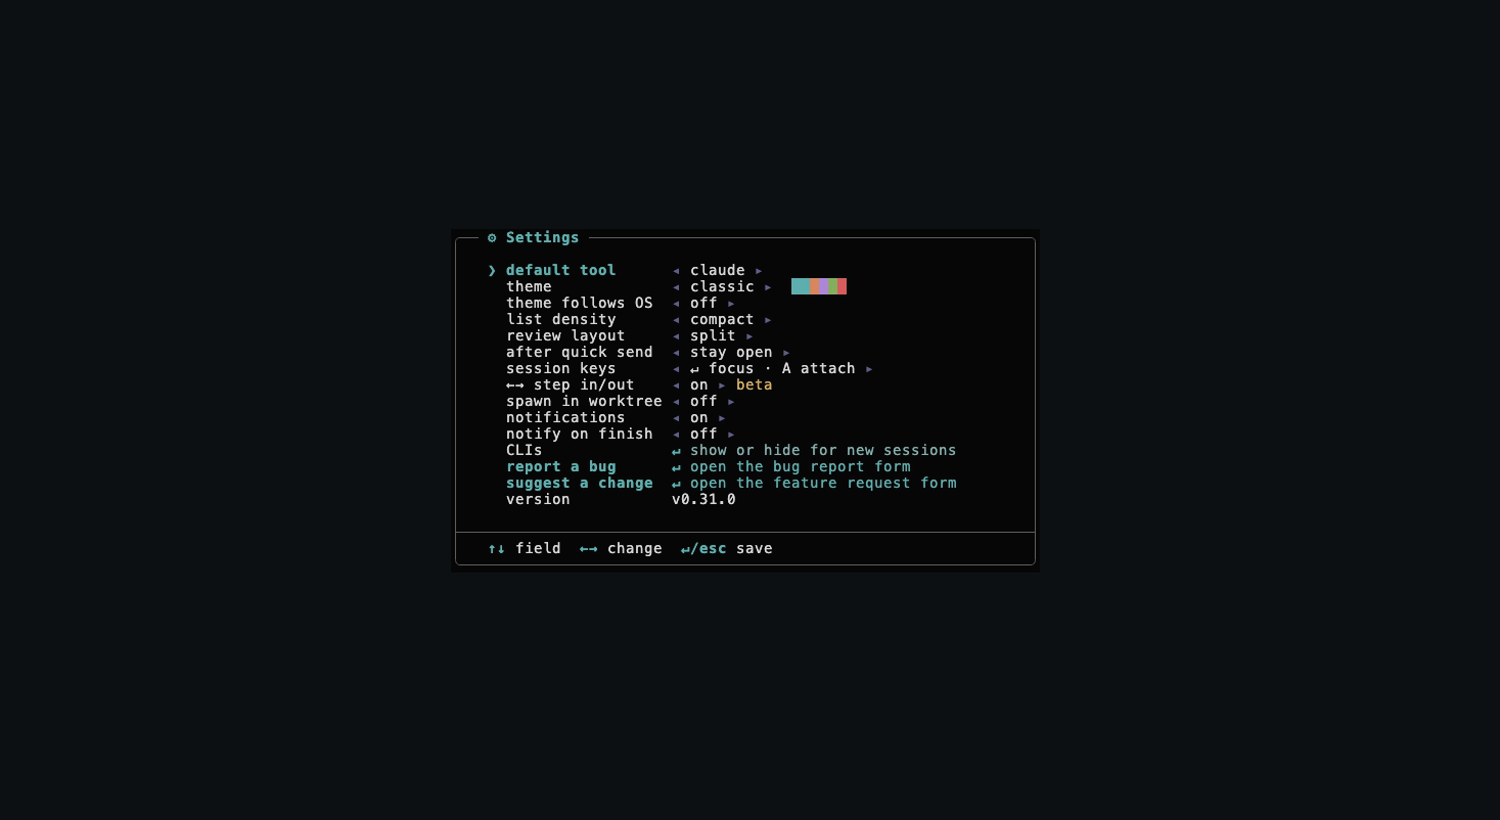
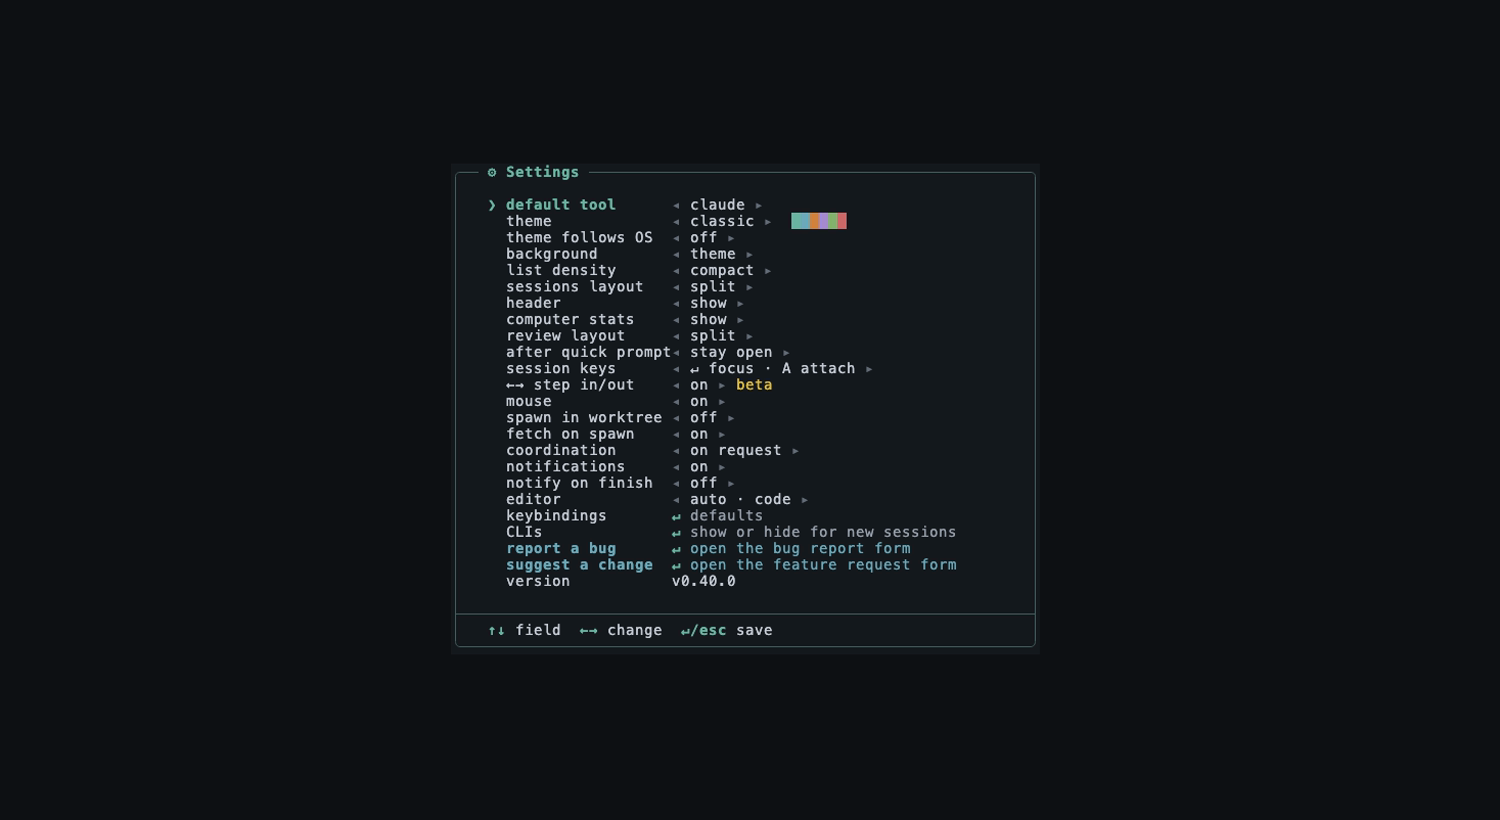
docs: reshoot the demos and stills on v0.40.0
The hero now picks Opus at high effort in quick prompt mode before the
five spawns. The settings, sessions and review stills, the space demo
and both full-screen demos show the v0.40.0 footer, Settings rows and
quick prompt bar.

diff --git a/docs/usage.md b/docs/usage.md
@@ -80,7 +80,7 @@ The new-session form's optional `prompt` field launches an agent the same way, a
 
 The "sessions layout" row in Settings (`s`) hands the session list the whole terminal: `←` or `→` swaps it to `full screen`, the preview column steps aside, and every row takes the full width. The same keys return it to `split`, the default, and the choice is persisted like the split ratio.
 
-![the session list taking the whole terminal, one-line rows with the messages badge on the foot, then a session focused full screen](demo-fullscreen.gif)
+![the session list taking the whole terminal, one-line rows with the computer stats on the foot, then a session focused full screen](demo-fullscreen.gif)
 
 Session rows read the same way in either layout, and the list density setting picks their rhythm. Compact keeps a session to one line: mark, name and badges, then a state-picked value riding to the right of the name with `state · tool · age` against the right edge. That value is the agent's last message whenever it has said anything (the question it waits on, its progress, its result) behind a static `↳` washed in the state color, and the task it was given behind the accent's `❯` only while it has not. Comfortable unfolds each session to three lines: the name line, your last message behind a `❯` in the accent, and the agent's last message under it. A terminal keeps two of them, its name line and its last output, since no one is prompting a shell. Both messages come from the session's own record: the prompt echoed into its transcript (typed in an attach, the focus view, or quick prompt mode, all the same) and the reply read from above its input box, recovered from the tool's session store when it scrolled away. A `waiting` session's message wears its state color at full strength, the other states at a wash of theirs; a `working` session that has not said anything yet animates a loader. Groups stay one line at any density. In the full-screen layout the meters condense to one labeled line above the key legend: cpu, mem, swap, disk, battery (when present), temperatures and net. The separate `header` and `computer stats` settings apply in either layout and return hidden chrome to the session list. Hiding computer stats removes the whole lower block, including its separator. Messages open automatically when new notices arrive. `M` reopens them, and so does a click on `messages` in the key legend while any message is left.
 
@@ -371,7 +371,7 @@ A session stuck on the wrong mark is a rules question, and the rules are ours: t
 
 `w` narrows the list to sessions that need attention (`waiting`, `finished`, `errored`). Press again to show every status. An `ATTENTION` badge sits over the list with the key that clears it, and the session counts follow the filter; folds open so matches are not hidden. The archived view (`t`) and hidden empty groups (`e`) label themselves the same way. The badges take whatever room the rail has: padded away from the entries on a tall terminal, tight against them on a short one, and yielding to the entries once the list is down to its last rows.
 
-![the session tree, with a waiting agent's permission prompt in the preview](screenshot-sessions.png)
+![the session tree, with a Claude Code session's latest answer in the preview](screenshot-sessions.png)
 
 Each row carries its status and tool inline, and a folded group keeps a count per status so a collapsed subtree still tells you whether anything needs you. Selecting a session shows the tail of its pane on the right, which is how a `waiting` agent's actual question reaches you without attaching. A session with no window left, archived or killed, shows the snapshot taken when it still had one.
 

diff --git a/README.md b/README.md
@@ -32,7 +32,7 @@
   <a href="LICENSE"><img src="https://img.shields.io/github/license/YoanWai/agent-manager?style=for-the-badge&label=license&labelColor=1f2328&color=59636e" alt="licence"></a>
 </p>
 
-![five prompts to five fresh agents without moving the cursor, one per CLI, then the blocked one answered and its diff opened](docs/demo.gif)
+![five prompts to five fresh agents without moving the cursor, one per CLI, the first on Opus at high effort picked in the prompt bar, then a session's diff opened in review](docs/demo.gif)
 
 Claude Code, Codex, OpenCode, Grok, Gemini CLI, Antigravity CLI, Pi, Command Code, Hermes Agent, Muse Code, and Oh My Pi run side by side. Each tool runs in its own persistent tmux session.
 
@@ -110,9 +110,9 @@ A session can spawn into its own git worktree (`<repo>-worktrees/<name>`, branch
 
 A session can start on a model, reasoning effort and profile of its own, picked on the `n` form, with `ctrl+l`, `ctrl+x` and `ctrl+y` in quick prompt mode, or with `spawn --model --effort --profile`. The lists come from each CLI at runtime, so a new model shows up the day the CLI ships it, and restart, revive and fork keep the choice (see [Model, effort and profile](docs/usage.md#model-effort-and-profile)).
 
-![the session tree, with a waiting agent's permission prompt in the preview](docs/screenshot-sessions.png)
+![the session tree, with a Claude Code session's latest answer in the preview](docs/screenshot-sessions.png)
 
-![the session list taking the whole terminal, one-line rows with the messages badge on the foot, then a session focused full screen](docs/demo-fullscreen.gif)
+![the session list taking the whole terminal, one-line rows with the computer stats on the foot, then a session focused full screen](docs/demo-fullscreen.gif)
 
 ![the same full-screen list at the comfortable density: every session on three lines, its task and the agent's last message under the name](docs/demo-fullscreen-comfortable.gif)
 
